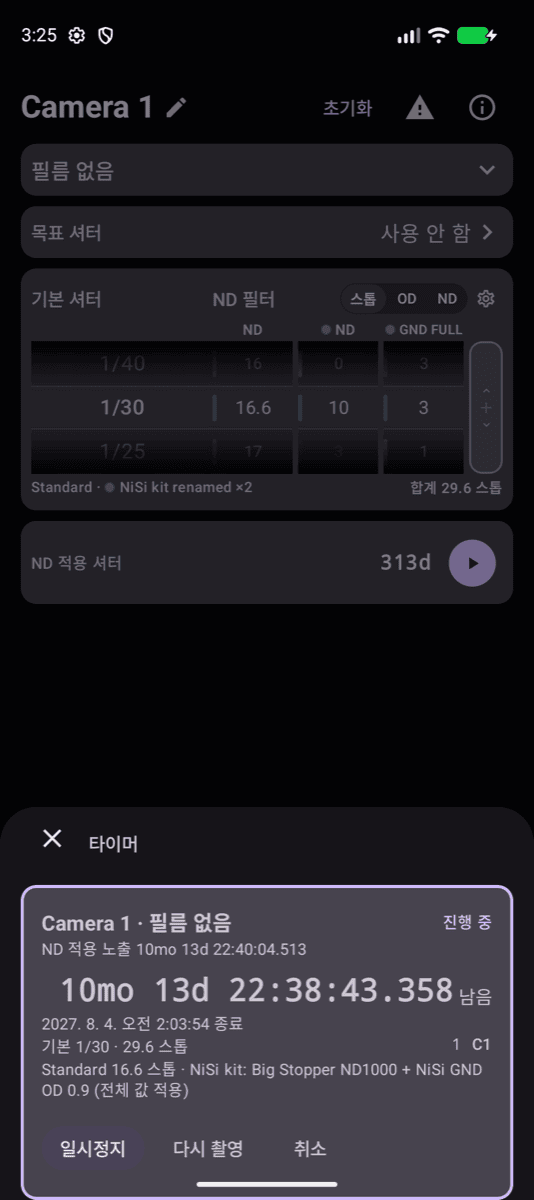
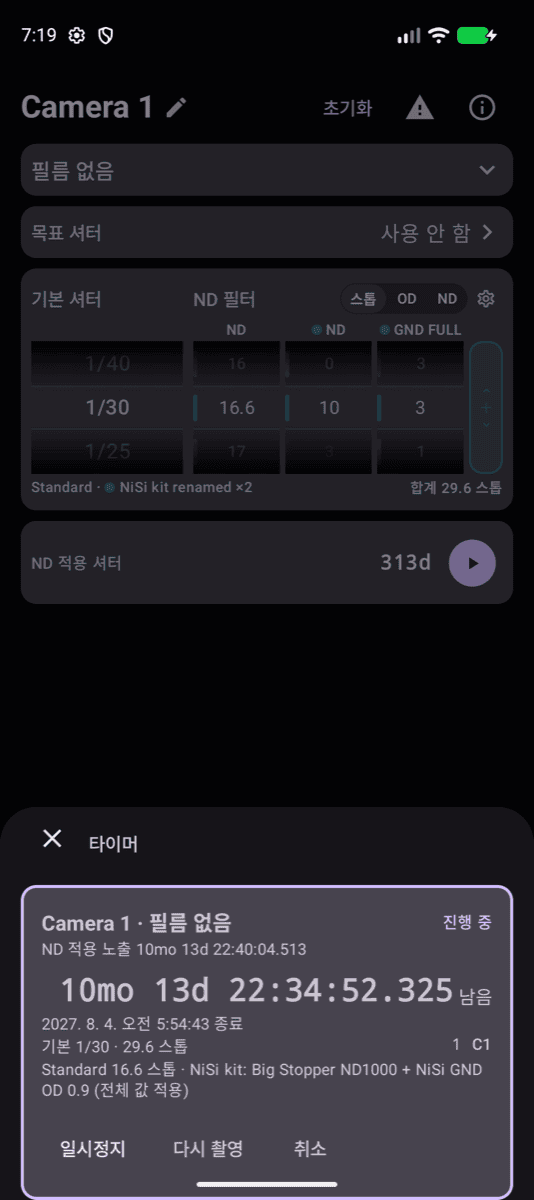
Render the affected-camera dialogs in Korean
The Korean half of the camera-name localization was asserted by calling
the formatter, not by rendering anything, and only one of the three
messages that carry a camera name was exercised at all. Both gaps
closed.

A Compose `Dialog` re-provides `LocalContext` from the platform, so an
outer locale provider cannot reach inside one — that is why the first
attempt rendered English only. Set the locale at the instrumentation
boundary instead, through the platform `LocaleManager` on the target
context, and set it before the activity launches rather than in a
`@Before` that runs after the compose rule has already started one. The
test asserts the launched activity's own configuration matches what was
asked for, so a silent fallback fails loudly instead of passing by
asserting English twice.

All three paths now render for real in both languages — Filter Set
deletion, Filter Item deletion, and the blocked item save — each with a
default slot name and a custom name in the same message. The expected
sentence is built from the rendering activity's own resources with the
same string id, so only the camera-name fragment is stated literally
and the copy is never duplicated from `strings.xml`. The four formatter
assertions and the controller coverage are untouched.

Reverting the default-name branch to the locale-stable core value fails
six of the nine: the three Korean rendered paths and the three
formatter assertions. The three English paths still pass, which is
[…]

diff --git a/android/app/src/androidTest/kotlin/com/sangwook/ptimer/app/ui/shooting/AffectedCameraNameTest.kt b/android/app/src/androidTest/kotlin/com/sangwook/ptimer/app/ui/shooting/AffectedCameraNameTest.kt
@@ -3,21 +3,38 @@
 
 package com.sangwook.ptimer.app.ui.shooting
 
+import android.app.LocaleManager
 import android.content.res.Configuration
+import android.content.res.Resources
+import android.os.LocaleList
+import android.os.SystemClock
+import androidx.activity.ComponentActivity
+import androidx.activity.compose.setContent
+import androidx.annotation.StringRes
+import androidx.compose.runtime.Composable
 import androidx.compose.ui.test.assertIsDisplayed
-import androidx.compose.ui.test.junit4.createComposeRule
+import androidx.compose.ui.test.junit4.createEmptyComposeRule
 import androidx.compose.ui.test.onNodeWithContentDescription
 import androidx.compose.ui.test.onNodeWithText
 import androidx.compose.ui.test.performClick
+import androidx.test.core.app.ActivityScenario
+import androidx.test.platform.app.InstrumentationRegistry
+import com.sangwook.ptimer.R
+import com.sangwook.ptimer.app.vm.FilterItemSaveBlockReason
 import com.sangwook.ptimer.app.vm.FilterItemSaveOutcome
 import com.sangwook.ptimer.core.exposure.FilterInventory
+import com.sangwook.ptimer.core.exposure.FilterItem
+import com.sangwook.ptimer.core.exposure.FilterItemBehavior
+import com.sangwook.ptimer.core.exposure.FilterRegisteredValue
 import com.sangwook.ptimer.core.exposure.FilterSet
 import com.sangwook.ptimer.core.exposure.FilterSetColor
+import com.sangwook.ptimer.core.exposure.FilterValueUnit
 import com.sangwook.ptimer.core.slots.CameraSlotId
 import com.sangwook.ptimer.core.slots.CameraSlotIdentity
 import com.sangwook.ptimer.ui.theme.PTimerTheme
-import androidx.test.platform.app.InstrumentationRegistry
+import org.junit.After
 import org.junit.Assert.assertEquals
+import org.junit.Before
 import org.junit.Rule
 import org.junit.Test
 import java.util.Locale
@@ -29,69 +46,118 @@ import java.util.Locale
  * survive byte for byte. The state layer keeps the default label
  * locale-stable because it has no resources, so the substitution
  * happens here, at the display boundary.
+ *
+ * Three surfaces interpolate a camera name — deleting a Filter Set,
+ * deleting a Filter Item, and a refused item save — and each is driven
+ * here for real, in English and in Korean, with one default slot name
+ * and one custom name in the same message.
+ *
+ * Every one of the three lives inside a Compose `Dialog`, which hosts
+ * its own `AndroidComposeView` and re-provides `LocalContext`,
+ * `LocalConfiguration` and `LocalResources` from the platform. A
+ * `CompositionLocalProvider` wrapped around the content therefore does
+ * not reach inside (it does reach the shooting screen, which is not a
+ * dialog). The language is set at the instrumentation boundary instead,
+ * on the per-app locale, and the activity that renders is launched
+ * afterwards and asserted to carry it.
  */
 class AffectedCameraNameTest {
+    /**
+     * Empty: the content goes on an activity this test launches itself,
+     * after the per-app locale is in place.
+     */
     @get:Rule
-    val composeTestRule = createComposeRule()
+    val composeTestRule = createEmptyComposeRule()
 
-    private val set = FilterSet("Lee holder", FilterSetColor.blue)
+    private val instrumentation = InstrumentationRegistry.getInstrumentation()
+    private val localeManager: LocaleManager =
+        instrumentation.targetContext.getSystemService(LocaleManager::class.java)
 
-    private fun resourcesFor(locale: Locale) = InstrumentationRegistry.getInstrumentation()
-        .targetContext
-        .let { base ->
-            base.createConfigurationContext(
-                Configuration(base.resources.configuration).apply { setLocale(locale) },
-            ).resources
-        }
+    /** Whatever the device had, restored whichever way a test ends. */
+    private var originalLocales: LocaleList = LocaleList.getEmptyLocaleList()
+    private var scenario: ActivityScenario<ComponentActivity>? = null
 
-    private fun showDeleteConfirmation(cameras: List<CameraSlotIdentity>) {
-        composeTestRule.setContent {
-            PTimerTheme {
-                    FilterSetManagementScreen(
-                        inventory = FilterInventory(listOf(set)),
-                        actions = FilterSetManagementActions(
-                            suggestCreationColor = { FilterSetColor.blue },
-                            createFilterSet = { _, _ -> },
-                            renameFilterSet = { _, _ -> },
-                            recolorFilterSet = { _, _ -> },
-                            moveFilterSet = { _, _ -> },
-                            deleteFilterSet = {},
-                            moveFilterItem = { _, _, _ -> },
-                            deleteFilterItem = {},
-                            saveFilterItem = { _, _ -> FilterItemSaveOutcome.Saved },
-                            camerasAffectedByDeletingFilterSet = { cameras },
-                            camerasAffectedByDeletingItem = { cameras },
-                        ),
-                        onDismiss = {},
-                    )
-            }
-        }
-        // Enter edit mode and ask to delete the only set, which raises the
-        // confirmation carrying the affected-camera message.
-        composeTestRule.onNodeWithText("Edit").performClick()
-        composeTestRule.onNodeWithContentDescription("Delete").performClick()
-        composeTestRule.waitForIdle()
+    /** Resources of the activity that is rendering, in its own locale. */
+    private lateinit var rendered: Resources
+
+    /** One default slot label and one photographer-supplied name. */
+    private val cameras = listOf(
+        CameraSlotIdentity(CameraSlotId.camera1),
+        CameraSlotIdentity(CameraSlotId.camera3, CUSTOM_CAMERA_NAME),
+    )
+
+    private val item = FilterItem(
+        name = "Big Stopper",
+        behavior = FilterItemBehavior.Fixed(FilterRegisteredValue(10.0, FilterValueUnit.stops)),
+    )
+    private val set = FilterSet("Lee holder", FilterSetColor.blue, listOf(item))
+
+    private val actions = FilterSetManagementActions(
+        suggestCreationColor = { FilterSetColor.blue },
+        createFilterSet = { _, _ -> },
+        renameFilterSet = { _, _ -> },
+        recolorFilterSet = { _, _ -> },
+        moveFilterSet = { _, _ -> },
+        deleteFilterSet = {},
+        moveFilterItem = { _, _, _ -> },
+        deleteFilterItem = {},
+        saveFilterItem = { _, _ -> FilterItemSaveOutcome.Saved },
+        camerasAffectedByDeletingFilterSet = { cameras },
+        camerasAffectedByDeletingItem = { cameras },
+    )
+
+    @Before
+    fun rememberTheDeviceLocale() {
+        originalLocales = localeManager.applicationLocales
+    }
+
+    @After
+    fun restoreTheDeviceLocale() {
+        scenario?.close()
+        scenario = null
+        applyAppLocale(originalLocales)
+    }
+
+    // ---- the three rendered call paths -------------------------------
+
+    @Test
+    fun theFilterSetDeleteConfirmationNamesTheCamerasInEnglish() {
+        openFilterSetDeleteConfirmation(ENGLISH)
+        assertCamerasRendered(R.string.filter_set_delete_message_cameras, ENGLISH_CAMERAS)
     }
 
     @Test
-    fun theRenderedConfirmationNamesTheDefaultSlotAndKeepsACustomName() {
-        showDeleteConfirmation(
-            listOf(
-                CameraSlotIdentity(CameraSlotId.camera1),
-                CameraSlotIdentity(CameraSlotId.camera3, "Rolleiflex 2.8F"),
-            ),
-        )
-        composeTestRule.onNodeWithText("Camera 1, Rolleiflex 2.8F", substring = true).assertIsDisplayed()
+    fun theFilterSetDeleteConfirmationNamesTheCamerasInKorean() {
+        openFilterSetDeleteConfirmation(KOREAN)
+        assertCamerasRendered(R.string.filter_set_delete_message_cameras, KOREAN_CAMERAS)
     }
 
-    /**
-     * The management surface is a `Dialog`, and a Compose `Dialog` hosts
-     * its own `AndroidComposeView` which re-provides `LocalContext` and
-     * `LocalConfiguration` from the platform — a provider outside it does
-     * not reach inside, so the rendered test above cannot be driven in a
-     * second language. The Korean half is asserted on the exact function
-     * the dialog calls, with a real Korean `Resources`.
-     */
+    @Test
+    fun theFilterItemDeleteConfirmationNamesTheCamerasInEnglish() {
+        openFilterItemDeleteConfirmation(ENGLISH)
+        assertCamerasRendered(R.string.filter_item_delete_message_cameras, ENGLISH_CAMERAS)
+    }
+
+    @Test
+    fun theFilterItemDeleteConfirmationNamesTheCamerasInKorean() {
+        openFilterItemDeleteConfirmation(KOREAN)
+        assertCamerasRendered(R.string.filter_item_delete_message_cameras, KOREAN_CAMERAS)
+    }
+
+    @Test
+    fun theBlockedSaveNamesTheCamerasInEnglish() {
+        openBlockedSave(ENGLISH)
+        assertCamerasRendered(R.string.filter_item_save_blocked_choice, ENGLISH_CAMERAS)
+    }
+
+    @Test
+    fun theBlockedSaveNamesTheCamerasInKorean() {
+        openBlockedSave(KOREAN)
+        assertCamerasRendered(R.string.filter_item_save_blocked_choice, KOREAN_CAMERAS)
+    }
+
+    // ---- the formatter, directly -------------------------------------
+
     @Test
     fun theDefaultSlotLabelIsLocalizedAndACustomNameIsNot() {
         val english = resourcesFor(Locale.US)
@@ -132,4 +198,136 @@ class AffectedCameraNameTest {
             ),
         )
     }
+
+    // ---- navigation --------------------------------------------------
+
+    /** Edit mode on the list level, then delete the only Filter Set. */
+    private fun openFilterSetDeleteConfirmation(language: String) {
+        renderManagementScreen(language)
+        clickText(R.string.action_edit)
+        clickDescription(R.string.action_delete)
+    }
+
+    /** Open the only Filter Set, then delete its only Filter Item. */
+    private fun openFilterItemDeleteConfirmation(language: String) {
+        renderManagementScreen(language)
+        // The row reads out as "name, color, count"; the name is enough.
+        composeTestRule.onNodeWithContentDescription(set.name, substring = true).performClick()
+        composeTestRule.waitForIdle()
+        clickText(R.string.action_edit)
+        clickDescription(R.string.action_delete)
+    }
+
+    /** Save an existing item against a controller that refuses it. */
+    private fun openBlockedSave(language: String) {
+        render(language) {
+            FilterItemEditorDialog(
+                target = FilterItemEditorTarget.Existing(item),
+                onSave = {
+                    FilterItemSaveOutcome.Blocked(cameras, FilterItemSaveBlockReason.removesSelectedChoice)
+                },
+                onSaved = {},
+                onDismiss = {},
+            )
+        }
+        clickText(R.string.action_save)
+    }
+
+    private fun renderManagementScreen(language: String) {
+        render(language) {
+            FilterSetManagementScreen(
+                inventory = FilterInventory(listOf(set)),
+                actions = actions,
+                onDismiss = {},
+            )
+        }
+    }
+
+    // ---- assertions --------------------------------------------------
+
+    /**
+     * The whole message as the surface renders it: the sentence comes
+     * from the rendering activity's own resources, so only the camera
+     * names are stated here.
+     */
+    private fun assertCamerasRendered(@StringRes message: Int, cameraNames: String) {
+        composeTestRule.onNodeWithText(rendered.getString(message, cameraNames)).assertIsDisplayed()
+    }
+
+    private fun clickText(@StringRes label: Int) {
+        composeTestRule.onNodeWithText(rendered.getString(label)).performClick()
+        composeTestRule.waitForIdle()
+    }
+
+    private fun clickDescription(@StringRes label: Int) {
+        composeTestRule.onNodeWithContentDescription(rendered.getString(label)).performClick()
+        composeTestRule.waitForIdle()
+    }
+
+    // ---- the language boundary ---------------------------------------
+
+    /**
+     * Put the app in [language], then launch the activity that renders
+     * [content] and confirm it really came up in that language — a
+     * silent fall back to the device locale would otherwise let the
+     * second language pass by asserting the first one twice.
+     */
+    private fun render(language: String, content: @Composable () -> Unit) {
+        applyAppLocale(LocaleList.forLanguageTags(language))
+        // The process is told about the new configuration asynchronously.
+        // The activity below is what has to carry it, and is asserted, so
+        // this is only a settling wait.
+        await { currentLanguageOf(instrumentation.targetContext.resources) == language }
+
+        val launched = ActivityScenario.launch(ComponentActivity::class.java)
+        scenario = launched
+        var launchedLanguage = ""
+        launched.onActivity { activity ->
+            launchedLanguage = currentLanguageOf(activity.resources)
+            rendered = activity.resources
+            activity.setContent { PTimerTheme { content() } }
+        }
+        assertEquals(
+            "The rendering activity did not come up in the per-app locale",
+            language,
+            launchedLanguage,
+        )
+        composeTestRule.waitForIdle()
+    }
+
+    private fun applyAppLocale(locales: LocaleList) {
+        instrumentation.runOnMainSync { localeManager.applicationLocales = locales }
+        await { localeManager.applicationLocales.toLanguageTags() == locales.toLanguageTags() }
+        assertEquals(
+            "The platform did not take the per-app locale",
+            locales.toLanguageTags(),
+            localeManager.applicationLocales.toLanguageTags(),
+        )
+    }
+
+    private fun currentLanguageOf(resources: Resources) =
+        resources.configuration.locales[0].toLanguageTag()
+
+    private fun await(condition: () -> Boolean): Boolean {
+        val deadline = SystemClock.uptimeMillis() + LOCALE_TIMEOUT_MILLIS
+        while (SystemClock.uptimeMillis() < deadline) {
+            if (condition()) return true
+            Thread.sleep(LOCALE_POLL_MILLIS)
+        }
+        return condition()
+    }
+
+    private fun resourcesFor(locale: Locale) = instrumentation.targetContext.let { base ->
+        base.createConfigurationContext(
+            Configuration(base.resources.configuration).apply { setLocale(locale) },
+        ).resources
+    }
 }
+
+private const val ENGLISH = "en-US"
+private const val KOREAN = "ko-KR"
+private const val CUSTOM_CAMERA_NAME = "Rolleiflex 2.8F"
+private const val ENGLISH_CAMERAS = "Camera 1, $CUSTOM_CAMERA_NAME"
+private const val KOREAN_CAMERAS = "카메라 1, $CUSTOM_CAMERA_NAME"
+private const val LOCALE_TIMEOUT_MILLIS = 5_000L
+private const val LOCALE_POLL_MILLIS = 50L

diff --git a/docs/review-artifacts/PTIMER-221/android-ios/README.md b/docs/review-artifacts/PTIMER-221/android-ios/README.md
@@ -39,14 +39,18 @@ rather than averaged:
 | --- | --- |
 | `496a4ec4` | `09`, `13`, `13-b`, `15`, `16`, `17`, `18`, `19`, `19-b`, `21`, `28` |
 | `120bb559` | `07` |
-| `ed233a07` | `25`, `26`, `26-b`, `26-c`, `26-d` |
+| `5d6db106` | `25`, `26`, `26-b`, `26-c`, `26-d` |
 | `79b339c9` | every scenario not listed above, unchanged from the first pass |
 
-Each later commit touches only the timer card, which is why exactly the
-timer-card frames were reshot against it and the rest stay valid:
-`120bb559` changed how a mixed stack's total is formatted, `ed233a07`
-let the reference line wrap. The five `ed233a07` frames come from one
-seeding, so the scenario 26 sequence reads as one run. `07` was
+`120bb559` changed how a mixed stack's total is formatted and
+`ed233a07` let the timer's reference line wrap, so only the timer-card
+frames were reshot against those. `5d6db106` then relaid the shooting
+card out from measured widths, which is visible in every frame that
+shows that card — the `ND 필터` label moves left, the base-shutter
+column narrows from about 45% of the card to 28%, and the wheels become
+separate boxes with their own type-cue rails. The five frames listed
+against it were retaken from one seeding for that reason; the timer
+card inside them is unchanged. `07` was
 additionally verified on `496a4ec4` before `120bb559` landed — same
 keypad, same input type, same focus behaviour — so it is cross-checked
 on both.
@@ -99,7 +103,7 @@ dump` node `bounds` on Android.
 | `23-camera-switch` | Camera 2's independent stack and remembered Plus source, then camera 1 restored (`-b`). |
 | `24-after-relaunch` | The same stack after force-stop and relaunch. |
 | `25-timer-reference` | A timer started from a mixed stack; primary total line and secondary reference line. |
-| `26-timer-reference-after-delete` | The Filter Set behind that running timer renamed (Android `ios`/`android` first frame), then deleted: the confirmation dialog (`-b` iOS / `-c` Android), the collapsed stack (`-c` iOS / `-d` Android), and the timer entry after cancelling (`-d` iOS / `-e` Android). |
+| `26-timer-reference-after-delete` | The Filter Set behind that running timer renamed, then deleted. iOS: the timer card after the delete (`ios`), the confirmation dialog (`-b`), the collapsed stack (`-c`), the timer entry after cancelling (`-d`). Android: the timer card after the **rename**, with the set still named as captured (`android`), then the confirmation dialog (`-b`), the collapsed stack (`-c`), and the timer card after the delete (`-d`). The two platforms' supplementary frames are therefore not index-for-index; each is named for what it shows. |
 | `27-a11y-wheel` | One wheel's accessibility label and value. iOS read from source (the simulator accessibility tree tool was unavailable); Android label read from `uiautomator dump`, value read from source because the dump does not serialise `stateDescription`. |
 | `28-a11y-status` | The status region's accessibility structure: leading detail and total as separate elements. |
 
